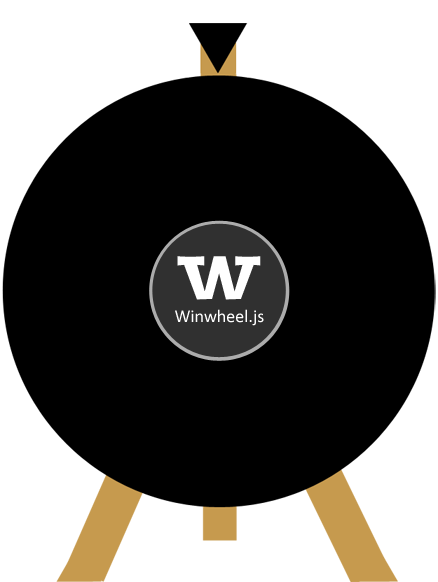
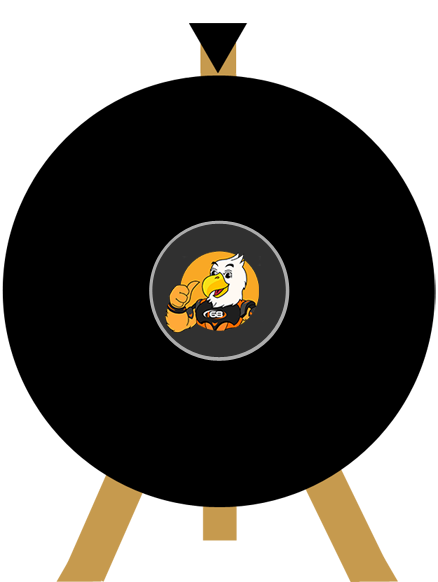
GAMES

Changed region(s): [[0.3562, 0.433, 0.6233, 0.5876]]

diff --git a/app_ilufa/views/guest/games/fortune.php b/app_ilufa/views/guest/games/fortune.php
@@ -1,0 +1,275 @@
+<html>
+
+<head>
+    <title>iLuFA 168 - Games</title>
+    <link rel="stylesheet" href="<?php echo GUEST ?>javascript-winwheel-2.7.0/examples/wheel_of_fortune/main.css" type="text/css" />
+    <script type="text/javascript" src="<?php echo GUEST ?>javascript-winwheel-2.7.0/Winwheel.js"></script>
+    <script src="http://cdnjs.cloudflare.com/ajax/libs/gsap/latest/TweenMax.min.js"></script>
+</head>
+
+<body>
+    <div align="center">
+        <h1>Kene ki ngko diisi opo ngono lho rek!</h1>
+        <!-- <p>Here is an example of a code-drawn Wheel of Fortune looking wheel which spins to a stop with the prize won alerted to the user.</p> -->
+        <!-- <br />
+        <p>
+            With some additional coding it could be made so that the prize won is added to a total after each spin rather than
+            just alerting the prize to make a proper wheel of fortune like game.
+        </p>
+        <br />
+        <p>Choose a power setting then press the Spin button. You will be alerted to the prize won when the spinning stops.</p> -->
+        <br />
+        <table cellpadding="0" cellspacing="0" border="0">
+            <tr>
+                <td>
+                    <div class="power_controls">
+                        <br />
+                        <br />
+                        <table class="power" cellpadding="10" cellspacing="0">
+                            <tr>
+                                <th align="center">Bantere sepiro?</th>
+                            </tr>
+                            <tr>
+                                <td width="78" align="center" id="pw3" onClick="powerSelected(3);">Bhuwanter</td>
+                            </tr>
+                            <tr>
+                                <td align="center" id="pw2" onClick="powerSelected(2);">Biasa</td>
+                            </tr>
+                            <tr>
+                                <td align="center" id="pw1" onClick="powerSelected(1);">Alon</td>
+                            </tr>
+                        </table>
+                        <br />
+                        <img id="spin_button" src="<?php echo GUEST ?>javascript-winwheel-2.7.0/examples/wheel_of_fortune/spin_off.jpg" alt="Spin" onClick="startSpin();" />
+                        <br /><br />
+                        &nbsp;&nbsp;<a href="#" onClick="resetWheel(); return false;">Main Meneh</a><br />&nbsp;&nbsp;&nbsp;&nbsp;&nbsp;(reset)
+                    </div>
+                </td>
+                <td width="438" height="582" class="the_wheel" align="center" valign="center">
+                    <canvas id="canvas" width="434" height="434">
+                        <p style="{color: white}" align="center">Sorry, your browser doesn't support canvas. Please try another.</p>
+                    </canvas>
+                </td>
+            </tr>
+        </table>
+        <script>
+            // Create new wheel object specifying the parameters at creation time.
+            var theWheel = new Winwheel({
+                'outerRadius': 212, // Set outer radius so wheel fits inside the background.
+                'innerRadius': 75, // Make wheel hollow so segments don't go all way to center.
+                'textFontSize': 24, // Set default font size for the segments.
+                'textOrientation': 'vertical', // Make text vertial so goes down from the outside of wheel.
+                'textAlignment': 'outer', // Align text to outside of wheel.
+                'numSegments': 24, // Specify number of segments.
+                'segments': // Define segments including colour and text.
+                    [ // font size and test colour overridden on backrupt segments.
+                        {
+                            'fillStyle': '#ee1c24',
+                            'text': '300'
+                        },
+                        {
+                            'fillStyle': '#3cb878',
+                            'text': '450'
+                        },
+                        {
+                            'fillStyle': '#f6989d',
+                            'text': '600'
+                        },
+                        {
+                            'fillStyle': '#00aef0',
+                            'text': '750'
+                        },
+                        {
+                            'fillStyle': '#f26522',
+                            'text': '500'
+                        },
+                        {
+                            'fillStyle': '#000000',
+                            'text': 'BANKRUPT',
+                            'textFontSize': 16,
+                            'textFillStyle': '#ffffff'
+                        },
+                        {
+                            'fillStyle': '#e70697',
+                            'text': '3000'
+                        },
+                        {
+                            'fillStyle': '#fff200',
+                            'text': '600'
+                        },
+                        {
+                            'fillStyle': '#f6989d',
+                            'text': '700'
+                        },
+                        {
+                            'fillStyle': '#ee1c24',
+                            'text': '350'
+                        },
+                        {
+                            'fillStyle': '#3cb878',
+                            'text': '500'
+                        },
+                        {
+                            'fillStyle': '#f26522',
+                            'text': '800'
+                        },
+                        {
+                            'fillStyle': '#a186be',
+                            'text': '300'
+                        },
+                        {
+                            'fillStyle': '#fff200',
+                            'text': '400'
+                        },
+                        {
+                            'fillStyle': '#00aef0',
+                            'text': '650'
+                        },
+                        {
+                            'fillStyle': '#ee1c24',
+                            'text': '1000'
+                        },
+                        {
+                            'fillStyle': '#f6989d',
+                            'text': '500'
+                        },
+                        {
+                            'fillStyle': '#f26522',
+                            'text': '400'
+                        },
+                        {
+                            'fillStyle': '#3cb878',
+                            'text': '900'
+                        },
+                        {
+                            'fillStyle': '#000000',
+                            'text': 'BANKRUPT',
+                            'textFontSize': 16,
+                            'textFillStyle': '#ffffff'
+                        },
+                        {
+                            'fillStyle': '#a186be',
+                            'text': '600'
+                        },
+                        {
+                            'fillStyle': '#fff200',
+                            'text': '700'
+                        },
+                        {
+                            'fillStyle': '#00aef0',
+                            'text': '800'
+                        },
+                        {
+                            'fillStyle': '#ffffff',
+                            'text': 'LOOSE TURN',
+                            'textFontSize': 12
+                        }
+                    ],
+                'animation': // Specify the animation to use.
+                {
+                    'type': 'spinToStop',
+                    'duration': 8, // Duration in seconds.
+                    'spins': 3, // Default number of complete spins.
+                    'callbackFinished': alertPrize
+                }
+            });
+
+            // Vars used by the code in this page to do power controls.
+            var wheelPower = 0;
+            var wheelSpinning = false;
+
+            // -------------------------------------------------------
+            // Function to handle the onClick on the power buttons.
+            // -------------------------------------------------------
+            function powerSelected(powerLevel) {
+                // Ensure that power can't be changed while wheel is spinning.
+                if (wheelSpinning == false) {
+                    // Reset all to grey incase this is not the first time the user has selected the power.
+                    document.getElementById('pw1').className = "";
+                    document.getElementById('pw2').className = "";
+                    document.getElementById('pw3').className = "";
+
+                    // Now light up all cells below-and-including the one selected by changing the class.
+                    if (powerLevel >= 1) {
+                        document.getElementById('pw1').className = "pw1";
+                    }
+
+                    if (powerLevel >= 2) {
+                        document.getElementById('pw2').className = "pw2";
+                    }
+
+                    if (powerLevel >= 3) {
+                        document.getElementById('pw3').className = "pw3";
+                    }
+
+                    // Set wheelPower var used when spin button is clicked.
+                    wheelPower = powerLevel;
+
+                    // Light up the spin button by changing it's source image and adding a clickable class to it.
+                    document.getElementById('spin_button').src = "spin_on.jpg";
+                    document.getElementById('spin_button').className = "clickable";
+                }
+            }
+
+            // -------------------------------------------------------
+            // Click handler for spin button.
+            // -------------------------------------------------------
+            function startSpin() {
+                // Ensure that spinning can't be clicked again while already running.
+                if (wheelSpinning == false) {
+                    // Based on the power level selected adjust the number of spins for the wheel, the more times is has
+                    // to rotate with the duration of the animation the quicker the wheel spins.
+                    if (wheelPower == 1) {
+                        theWheel.animation.spins = 3;
+                    } else if (wheelPower == 2) {
+                        theWheel.animation.spins = 6;
+                    } else if (wheelPower == 3) {
+                        theWheel.animation.spins = 9;
+                    }
+
+                    // Disable the spin button so can't click again while wheel is spinning.
+                    document.getElementById('spin_button').src = "<?php echo GUEST ?>javascript-winwheel-2.7.0/examples/wheel_of_fortune/spin_off.jpg";
+                    document.getElementById('spin_button').className = "";
+
+                    // Begin the spin animation by calling startAnimation on the wheel object.
+                    theWheel.startAnimation();
+
+                    // Set to true so that power can't be changed and spin button re-enabled during
+                    // the current animation. The user will have to reset before spinning again.
+                    wheelSpinning = true;
+                }
+            }
+
+            // -------------------------------------------------------
+            // Function for reset button.
+            // -------------------------------------------------------
+            function resetWheel() {
+                theWheel.stopAnimation(false); // Stop the animation, false as param so does not call callback function.
+                theWheel.rotationAngle = 0; // Re-set the wheel angle to 0 degrees.
+                theWheel.draw(); // Call draw to render changes to the wheel.
+
+                document.getElementById('pw1').className = ""; // Remove all colours from the power level indicators.
+                document.getElementById('pw2').className = "";
+                document.getElementById('pw3').className = "";
+
+                wheelSpinning = false; // Reset to false to power buttons and spin can be clicked again.
+            }
+
+            // -------------------------------------------------------
+            // Called when the spin animation has finished by the callback feature of the wheel because I specified callback in the parameters.
+            // -------------------------------------------------------
+            function alertPrize(indicatedSegment) {
+                // Just alert to the user what happened.
+                // In a real project probably want to do something more interesting than this with the result.
+                if (indicatedSegment.text == 'LOOSE TURN') {
+                    alert('Sorry but you loose a turn.');
+                } else if (indicatedSegment.text == 'BANKRUPT') {
+                    alert('Oh no, you have gone BANKRUPT!');
+                } else {
+                    alert("You have won " + indicatedSegment.text);
+                }
+            }
+        </script>
+</body>
+
+</html>

diff --git a/app_ilufa/controllers/Games.php b/app_ilufa/controllers/Games.php
@@ -1,0 +1,10 @@
+<?php
+defined('BASEPATH') OR exit('No direct script access allowed');
+
+class Games extends CI_Controller {
+
+	public function index()
+	{
+		$this->load->view('guest/games/fortune');
+	}
+}
